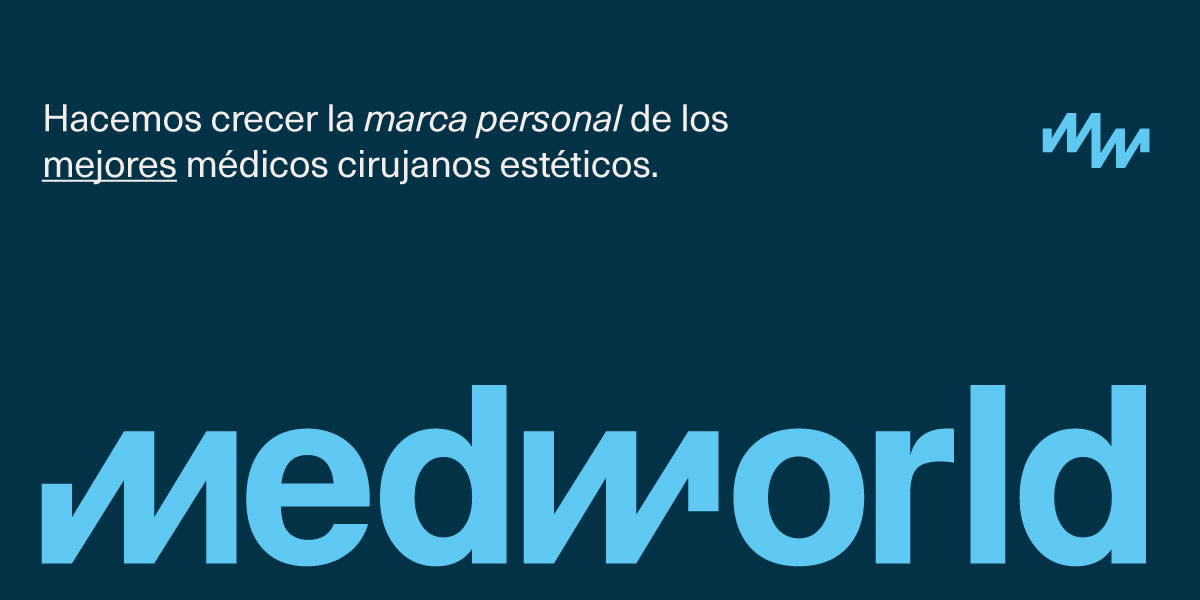
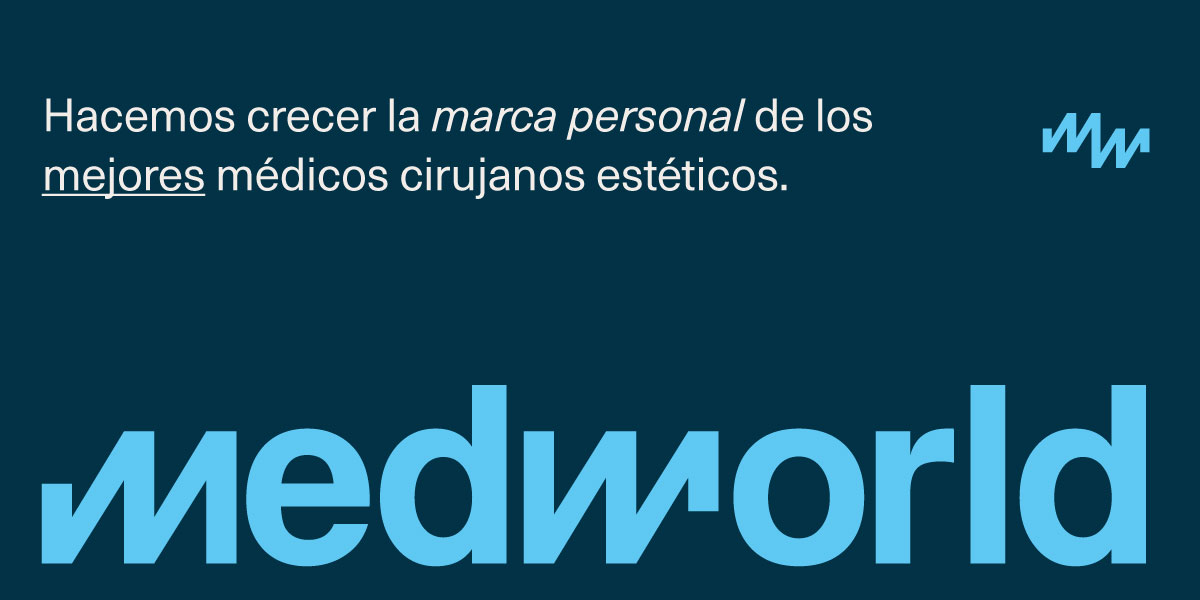
responsive mobile

Changed region(s): [[0.0308, 0.15, 0.74, 0.33]]

diff --git a/app/style.scss b/app/style.scss
@@ -1,5 +1,4 @@
-@import './variables.scss';
-
+@use './variables.scss' as *;
 
 
 html, body, div, span, applet, object, iframe,
@@ -293,6 +292,12 @@ strong{
     border-radius: 5em;
     margin-top: 1em;
 
+    @include media500px {
+        margin-right: 10px;
+        margin-left: 10px;
+        padding: 0px;
+    }
+
     .navbar__logo img{
         max-width: 60px;
         height: auto;
@@ -316,6 +321,11 @@ strong{
     margin: 0 auto;
     margin-top: 25vh;
 
+    @include media600px {
+        max-width: 90vw;
+        margin-top: 15vh;
+    }
+
 }
 
 .title{
@@ -329,6 +339,15 @@ strong{
 
     margin-top: 20px;
     max-width: 60vw;
+
+    @include media900px {
+        font-size: 1.5em;
+    }
+
+    @include media600px {
+        max-width: 80vw;
+        margin-top: 10px;
+    }
 
     .title_v1{
         font-style: italic;
@@ -346,6 +365,12 @@ strong{
     display: block;
     margin-left: auto;
     margin-right: auto;
+
+    @include media400px {
+        margin-left: 10px;
+        margin-right: 10px;
+        margin-top: 10vh;
+    }
   
     .cajon__pilares{
         display: flex;
@@ -358,6 +383,11 @@ strong{
             max-height: 100px;
             width: auto;
             margin: 20px;
+
+            @include media400px {
+                max-height: 80px;
+                margin: 15px;
+            }
         }
 
         p{
@@ -366,6 +396,10 @@ strong{
             font-size: 1.5em;
             line-height: 1.2em;
             margin-right: 20px;
+
+            @include media500px {
+                font-size: 1.2em;
+            }
         }
     }
 }

diff --git a/app/variables.scss b/app/variables.scss
@@ -129,3 +129,9 @@ $mb-xxl:148px; .mb-xxl{margin-bottom: $mb-xxl;}
     }
   }
 
+  @mixin media400px {
+    @media only screen and (max-width: 400px) {
+      @content;
+    }
+  }
+
